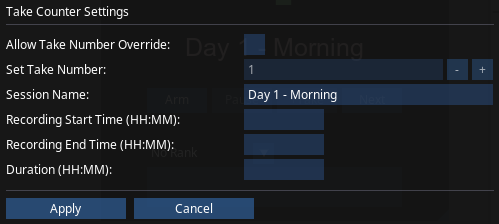
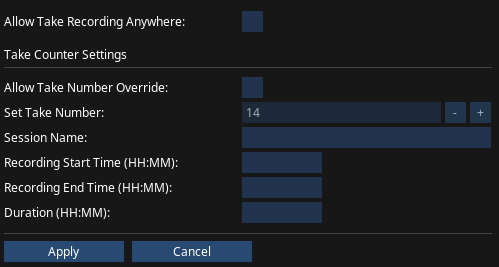
Update for new arbitrary recording location

diff --git a/docs/manual/index.html b/docs/manual/index.html
@@ -560,7 +560,7 @@ See <a href="https://www.gnu.org/licenses/fdl-1.3-standalone.html" class="bare">
 <p><em>Copyright © 2022–2026 chmaha</em></p>
 </div>
 <div class="paragraph text-center">
-<p><code>Updated: 2026-06-09 17:36:43 UTC</code></p>
+<p><code>Updated: 2026-06-09 19:38:20 UTC</code></p>
 </div>
 <div class="sidebarblock text-center">
 <div class="content">
@@ -1354,6 +1354,12 @@ There&#8217;s no real need to position the edit cursor before starting to record
 <img src="src/assets/record_panel_options.png" alt="Record Panel Options">
 </div>
 <div class="title">Figure 5. Record Panel Options</div>
+</div>
+<div class="sect5">
+<h6 id="_allow_take_recording_anywhere">Allow Take Recording Anywhere</h6>
+<div class="paragraph">
+<p>This setting overrides the default safety feature of only allowing new recorded items after the final item on the folder. This is useful if you record musical material out of order and wish to place new items at an arbitrary position on the project timeline.</p>
+</div>
 </div>
 <div class="sect5">
 <h6 id="_scheduled_recording">Scheduled Recording</h6>